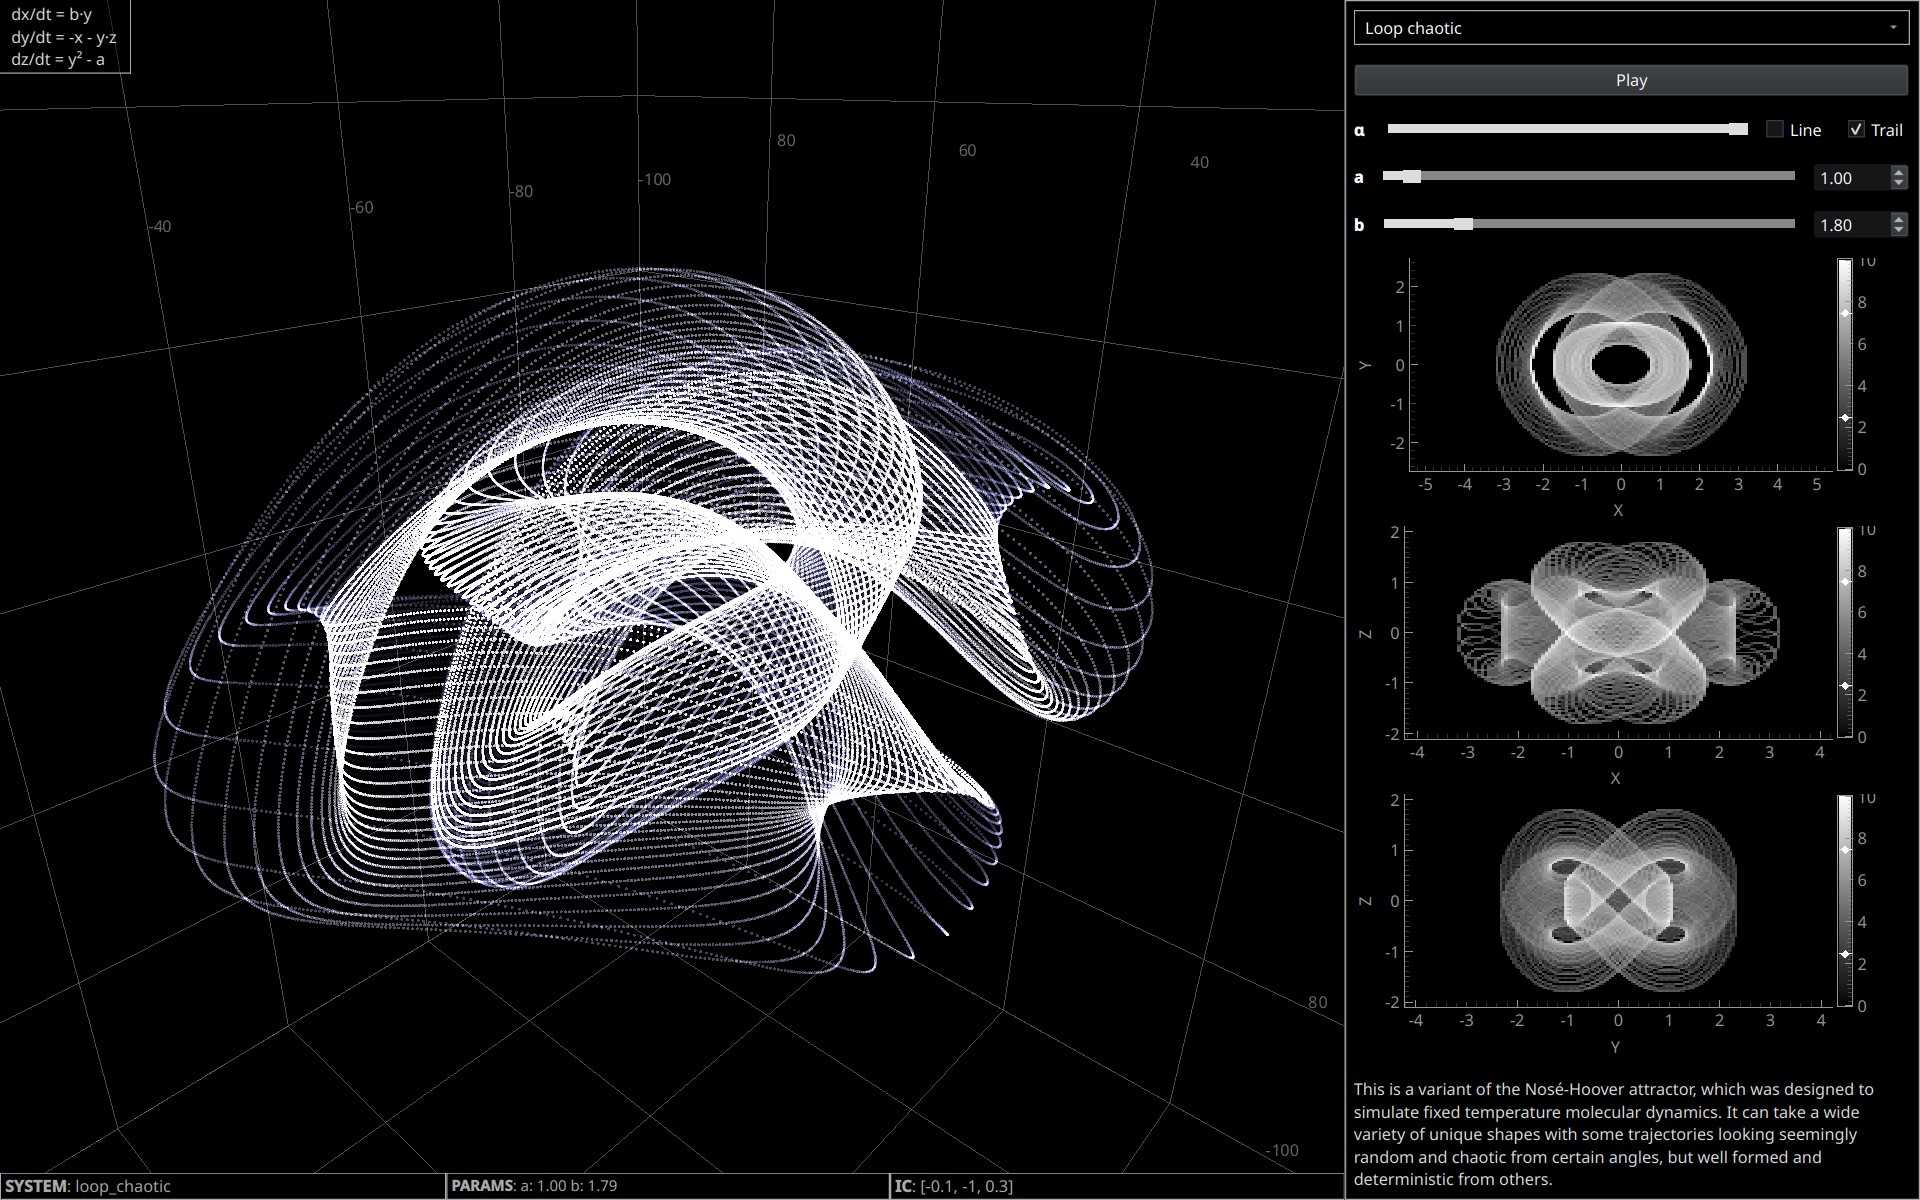
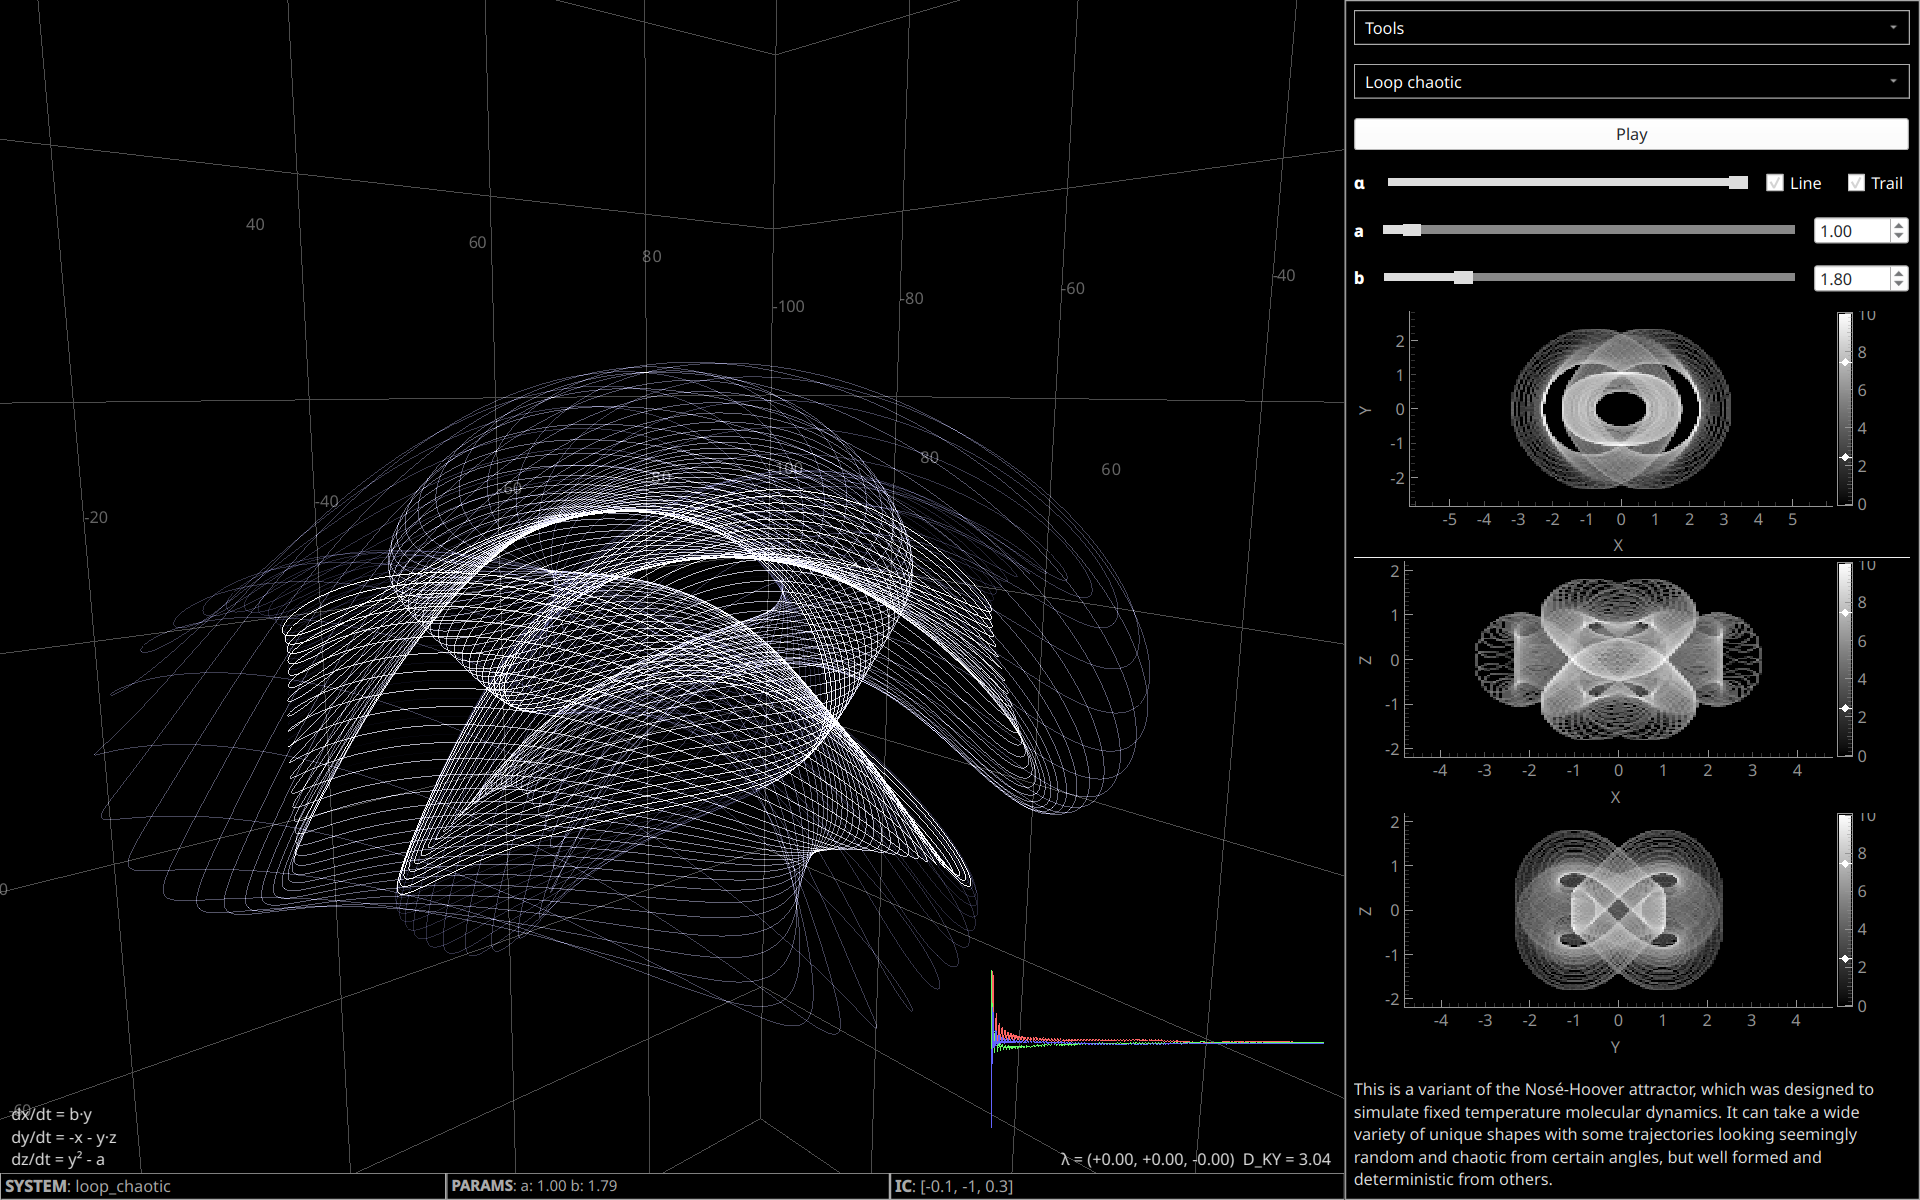
updated README

diff --git a/README.md b/README.md
@@ -2,7 +2,12 @@
 
 PyQtGraph app for visualising strange attractors.
 
-![](media/image_3.png)
+<table>
+  <tr>
+    <td><img src="media/image_3.png" /></td>
+    <td><img src="media/image_4.png" /></td>
+  </tr>
+</table>
 
 This is a local, more performant version of
 [strange-attractor-visualiser](https://github.com/aymenhafeez/strange-attractor-visualiser)